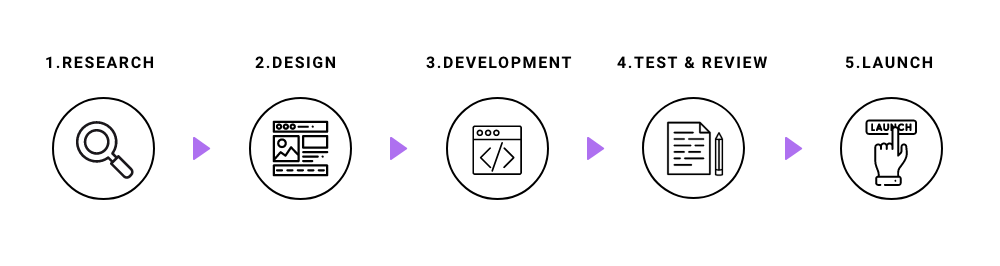
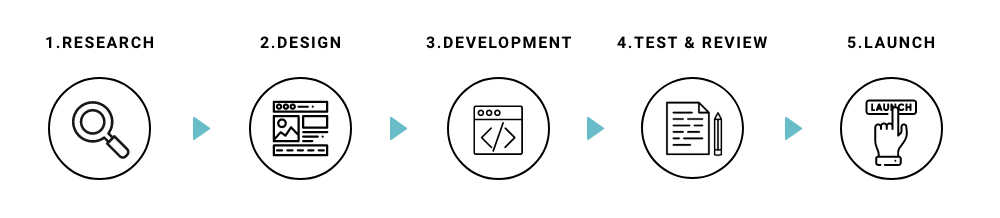
update h3 spacing and process arrow color

diff --git a/portfolio_designsystem2.html b/portfolio_designsystem2.html
@@ -132,7 +132,7 @@
                 <p>
                     I researched 2 things. First was navigation, interaction, and information structure which is utilized across pages. Second was the logo library and its organization.  
                 </p>
-                <h3 class="space-10t">Navigation</h3>
+                <h3>Navigation</h3>
                 <p>I went through multiple design systems and my personal favorites were <a
                         href="https://atlassian.design/foundations/iconography/" target="_blank"
                         class="colored_link">Atlassian</a> and <a
@@ -146,12 +146,12 @@
                 <p>
                     One thing I wish these 2 sites had was both global navigation on top and side navigation that stayed even when you scrolled down to the end so that we don’t have to scroll up to switch pages.
                 </p>
-                <h3 class="space-10t">Team layout decision is navigation on left</h3>
+                <h3>Team layout decision is navigation on left</h3>
                 <p>After the individual research, each team member did a 5 minute presentation to the team.
                     The consensus was the team liked the navigation on the left side because you could scan through the categories easily. With the side navigation you only needed one or two clicks to take you to your desired page. We agreed on the website layout and moved on to the design phase.
                 </p>
                 <img src="img/portfolios/web/1-3.jpg">
-                <h3 class="space-10t">Logo library</h3>
+                <h3>Logo library</h3>
                 <p>Most major company’s design systems have a standalone library website which includes logos, typography, illustrations and more. These pages have 2 main ways of downloading assets. Downloading by package with all the approved colors and formats or selecting one specific design or format type and downloading that. 
                 </p>
                 <p>
@@ -173,23 +173,23 @@
                 <h2>2.Design</h2>
                 <p>I made a quick sketch based on the research and team discussion.</p>
                 
-                <h3 class="space-10t">Layout and the interaction design sketch</h3>
+                <h3>Layout and the interaction design sketch</h3>
                 <p>I added notes about how I wanted interaction to work on the layout sketch. I wanted the header and side navigation menus to stay on the page when scrolling on the site. When clicking a navigation item on the left navigation menu, a sub navigation menu appears underneath the clicked on item. When clicking a sub navigation item, it takes you to the selected item’s section.</p>
                 <img src="img/portfolios/web/1-10.jpg" class="space-10b">
 
-                <h3 class="space-10t">Content sketch</h3>
+                <h3>Content sketch</h3>
                 <p>The design system’s basic structure is title, description and image. The Logos and Iconography section follow this structure.</p>
                 <p>The Library section could have been a separate page but since there are not that many assets I just put it on the same page. I added an asset download card for each asset type, because I wanted users to be able to see all the items at a glance.  
                 </p>
                 <p>Each asset download card has a download button. This download button will download the package of assets that will include .png and .svg files of the selected logo style and all color options. We went with packaged downloads because this avoids having a long page and will be less maintenance when adding or removing items from the library.</p>
                 <img src="img/portfolios/web/1-11.jpg" class="space-10b">
 
-                <h3 class="space-10t">High-fidelity</h3>
+                <h3>High-fidelity</h3>
                 <p>We moved to a high fidelity digital mockup after the design idea became clear
                 </p>
                 <img src="img/portfolios/web/1-5a.png" class="space-10b">
 
-                <h3 class="space-10t">Prototype</h3>
+                <h3>Prototype</h3>
                 <p>To show the overall website interaction to the team, I created a prototype.</p>
                 <div class="ifr_scale">
                     <iframe width="100%" height="100%" src="https://www.youtube.com/embed/RO2OpvmB3Ps"
@@ -215,7 +215,7 @@
                 <p>Two weeks before launching, we had a team review and prioritized final tasks. Tasks were categorized to critical features and nice to have. Instead of focusing on small details, we decided to complete necessary features and launch before the due date. This worked well to understand how many critical tasks we left and the importance of tasks.
                 </p>
                 <img src="img/portfolios/web/1-7.png">
-                <h3 class="space-10t">Final update before launching</h3>
+                <h3>Final update before launching</h3>
                 <p>A few small changes were made. The Wording Library was switched to Download to have a clearer message. The download icon button color was changed to the color “Acid Purple” (one of our brand color names). We standardized buttons and clickable links to be the color Acid Purple so that the download button followed the style set.
                 </p>
                 <img src="img/portfolios/web/1-6.png">

diff --git a/portfolio_brandguide.html b/portfolio_brandguide.html
@@ -127,7 +127,6 @@
                     <li>Color</li>
                     <li>Typography</li>
                 </ul>
-                <br>
                 <h3>Discovery</h3>
                 <p>We conducted a survey of the community leaders to learn their visions for the group. This survey and the follow-up interview became our blueprint for the mission and the Brand Guide.
                 </p>
@@ -140,7 +139,7 @@
                 </p>
                 <br>
                 <img src="img/portfolios/branding/1-4.png" alt="">
-                <br><br>
+            
                 <h3>Creation</h3>
                 <p>A group of Designers and UX writers took responsibility for each section and created a draft. Then the draft was then reviewed with the team and stakeholders. According to the feedback, multiple iterations were made. After each section was completed, we consolidated the sections into one layout and finalized it.</p>
             </section>
@@ -150,7 +149,6 @@
                 </p>
                 <br><br>
                 <a href="https://xd.adobe.com/view/5aa8686f-bd10-4dfa-a7ae-4f8ed7b0b34b-0ffb/" class="btn drb"  target="_blank" >VIEW BRAND GUIDE</a>                          
-                <br>
                 <h3>Logo</h3>
                 <p>Along with creating a Brand Guide, we decided to update the logo. The original logo had been used for over a year. If we made the change too drastic, there would be some risk that people may not recognize that it represented the same community. Therefore, <b>we set the goal to simplify the current logo to make it more versatile and gender neutral.</b></p>
                 
@@ -169,7 +167,6 @@
                 
                 <img src="img/portfolios/branding/1-6.png" alt="">
                 <img src="img/portfolios/branding/1-5.png" alt="">
-                <br><br>
                 <h3>Color</h3>
                 <p><b>Our vision of our color palette is playful, magical and fun. </b>The team was leaning towards having turquoise and purple colors on the color palette during the discovery phase. Turquoise is from the original logo color and purple was because it has a magical feel. 
                     I started testing color schemes with turquoise and purple. After adding neutral and accent colors, I refined the palette to find the right balance and tone.
@@ -184,23 +181,18 @@
                 <img src="img/portfolios/branding/1-7.png" alt="">
                 <br><br>
                 <img src="img/portfolios/branding/1-8.png" class="w60cen" alt="">
-                <br><br>
                 <h3>Tone of voice</h3>
                 <p>We conducted a survey for the community leaders and asked questions that included a mission statement and words to describe the community. The UX writers consolidated the answers and followed up with the community leaders to learn more details about their visions.  
                 </p>
-                
                 <p>During the process of creating the Tone of Voice category, we found we needed to make 2 new sections <b>Mission</b> and <b>Who We Are</b> before diving into <b>Tone of Voice </b>because knowing that the community's goals are for enthusiasts with a focus on learning means we wanted to use a more playful tone. Multiple content iterations had been made before launching to ensure a tone of voice to fit our mission and goals.
                 </p>
-                <br>
                 <h3>Typography</h3>
                 <p>We chose our typefaces using 2 criteria: font legibility and if the font had a good selection of styles and weights. We explored typography options and font combinations by selecting a set of fonts. With each font we styled a sample paragraph including a header, body and button.  
                 </p>
-                
                 <img src="img/portfolios/branding/1-10.png" alt="">
                 <br>
                 <p>After testing all the fonts, the team chose the Overpass. This font has a good selection of weights and is great for both headers and body text. We also felt a connection with this font because the Overpass font is used in road signals all around America which ties into UX Wizard’s diverse membership. 
                 </p>
-                 
             </section>
             <section>
                 <h2>USE CASE OF THE BRAND GUIDE</h2>

diff --git a/index.html b/index.html
@@ -87,7 +87,7 @@ This is her personal portfolio site. Have a look at her designs.">
             <div id="portfoliolist">
                 <div class="portfolio web" data-cat="web">
                     <div class="portfolio-wrapper">
-                        <a href="portfolio_webdesignsystem.html"><img src="img/portfolios/web/1.png" alt="" />
+                        <a href="portfolio_designsystem2.html"><img src="img/portfolios/web/1a.png" alt="" />
                             <div class="label">
                                 <div class="label-text">
                                     <div class="text-title">UX WIZARDS WEB DESIGN SYSTEM</div>

diff --git a/aki/about.html b/aki/about.html
@@ -7,7 +7,7 @@
     <meta name="viewport" content="width=device-width, initial-scale=1">
     <!-- The above 3 meta tags *must* come first in the head; any other head content must come *after* these tags -->
     <title>Aki Tokuhara</title>
-    <link href="https://opensource.keycdn.com/fontawesome/4.6.3/font-awesome.min.css" rel="stylesheet">
+    <link rel="stylesheet" href="https://use.fontawesome.com/releases/v5.3.1/css/all.css">
     <link href="https://fonts.googleapis.com/css?family=Droid+Sans:400,700" rel="stylesheet">
     <!-- Bootstrap -->
     <link href="css/bootstrap.min.css" rel="stylesheet">

diff --git a/aki/contact.html b/aki/contact.html
@@ -7,7 +7,7 @@
     <meta name="viewport" content="width=device-width, initial-scale=1">
     <!-- The above 3 meta tags *must* come first in the head; any other head content must come *after* these tags -->
     <title>Aki Tokuhara</title>
-    <link href="https://opensource.keycdn.com/fontawesome/4.6.3/font-awesome.min.css" rel="stylesheet">
+    <link rel="stylesheet" href="https://use.fontawesome.com/releases/v5.3.1/css/all.css">
     <link href="https://fonts.googleapis.com/css?family=Droid+Sans:400,700" rel="stylesheet">
     <!-- Bootstrap -->
     <link href="css/bootstrap.min.css" rel="stylesheet">

diff --git a/aki/event.html b/aki/event.html
@@ -7,7 +7,7 @@
     <meta name="viewport" content="width=device-width, initial-scale=1">
     <!-- The above 3 meta tags *must* come first in the head; any other head content must come *after* these tags -->
     <title>Aki Tokuhara</title>
-    <link href="https://opensource.keycdn.com/fontawesome/4.6.3/font-awesome.min.css" rel="stylesheet">
+    <link rel="stylesheet" href="https://use.fontawesome.com/releases/v5.3.1/css/all.css">
     <link href="https://fonts.googleapis.com/css?family=Droid+Sans:400,700" rel="stylesheet">
     <!-- Bootstrap -->
     <link href="css/bootstrap.min.css" rel="stylesheet">

diff --git a/aki/gallery.html b/aki/gallery.html
@@ -7,7 +7,7 @@
     <meta name="viewport" content="width=device-width, initial-scale=1">
     <!-- The above 3 meta tags *must* come first in the head; any other head content must come *after* these tags -->
     <title>Aki Tokuhara</title>
-    <link href="https://opensource.keycdn.com/fontawesome/4.6.3/font-awesome.min.css" rel="stylesheet">
+    <link rel="stylesheet" href="https://use.fontawesome.com/releases/v5.3.1/css/all.css">
     <link href="https://fonts.googleapis.com/css?family=Droid+Sans:400,700" rel="stylesheet">
     <!-- Bootstrap -->
     <link href="css/bootstrap.min.css" rel="stylesheet">

diff --git a/aki/index.html b/aki/index.html
@@ -7,7 +7,7 @@
     <meta name="viewport" content="width=device-width, initial-scale=1">
     <!-- The above 3 meta tags *must* come first in the head; any other head content must come *after* these tags -->
     <title>Aki Tokuhara</title>
-    <link href="https://opensource.keycdn.com/fontawesome/4.6.3/font-awesome.min.css" rel="stylesheet">
+    <link rel="stylesheet" href="https://use.fontawesome.com/releases/v5.3.1/css/all.css">
     <link href="https://fonts.googleapis.com/css?family=Droid+Sans:400,700" rel="stylesheet">
     <!-- Bootstrap -->
     <link href="css/bootstrap.min.css" rel="stylesheet">

diff --git a/aki/press_prize.html b/aki/press_prize.html
@@ -8,7 +8,7 @@
     <meta http-equiv="pragma" content="no-cache" />
     <!-- The above 3 meta tags *must* come first in the head; any other head content must come *after* these tags -->
     <title>Aki Tokuhara</title>
-    <link href="https://opensource.keycdn.com/fontawesome/4.6.3/font-awesome.min.css" rel="stylesheet">
+    <link rel="stylesheet" href="https://use.fontawesome.com/releases/v5.3.1/css/all.css">
     <link href="https://fonts.googleapis.com/css?family=Droid+Sans:400,700" rel="stylesheet">
     <!-- Bootstrap -->
     <link href="css/bootstrap.min.css" rel="stylesheet">

diff --git a/portfolio_aki.html b/portfolio_aki.html
@@ -163,10 +163,6 @@
                     VISIT SITE
                 </a>
             </section>
-            <!-- <div class="arrow">
-                <a href="portfolio_ictherapy.html"><i class="fa fa-chevron-left" aria-hidden="true"></i></a>
-                <a href="portfolio_california.html"><i class="fa fa-chevron-right" aria-hidden="true"></i></a>
-            </div> -->
             <div class="arrow_row">
                 <div class="col-4">
                     <a href="portfolio_ictherapy.html"><i class="fa fa-chevron-left" aria-hidden="true"></i></a>

diff --git a/css/style.css b/css/style.css
@@ -69,8 +69,8 @@ h3 {
     letter-spacing: 2px;
     color:#555555;
     line-height: 1.5em;
-    /* text-transform: uppercase; */
     text-align: left;
+    margin-top: 10%;
 }
 
 h4 {
